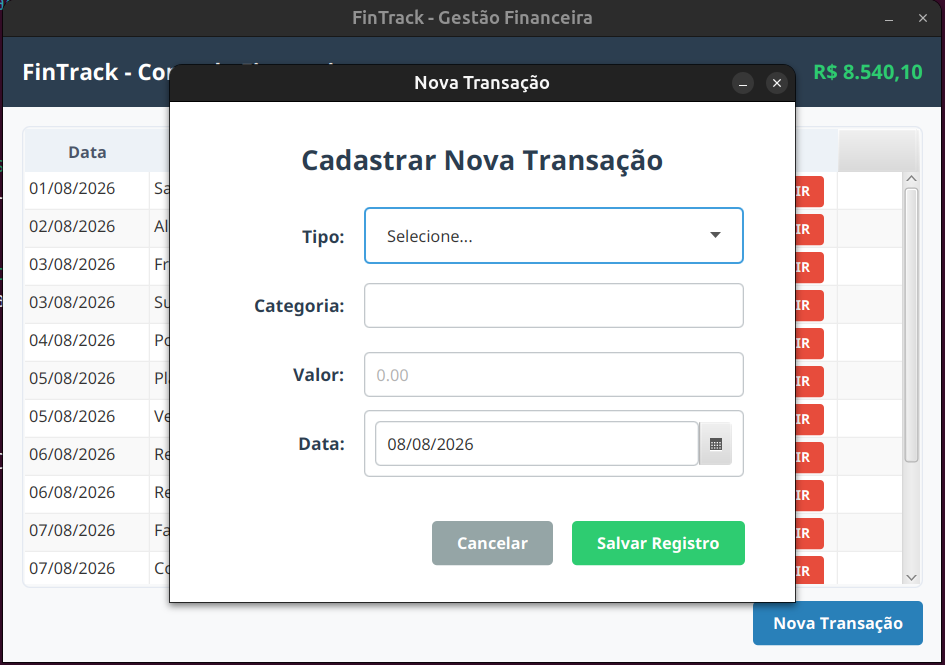
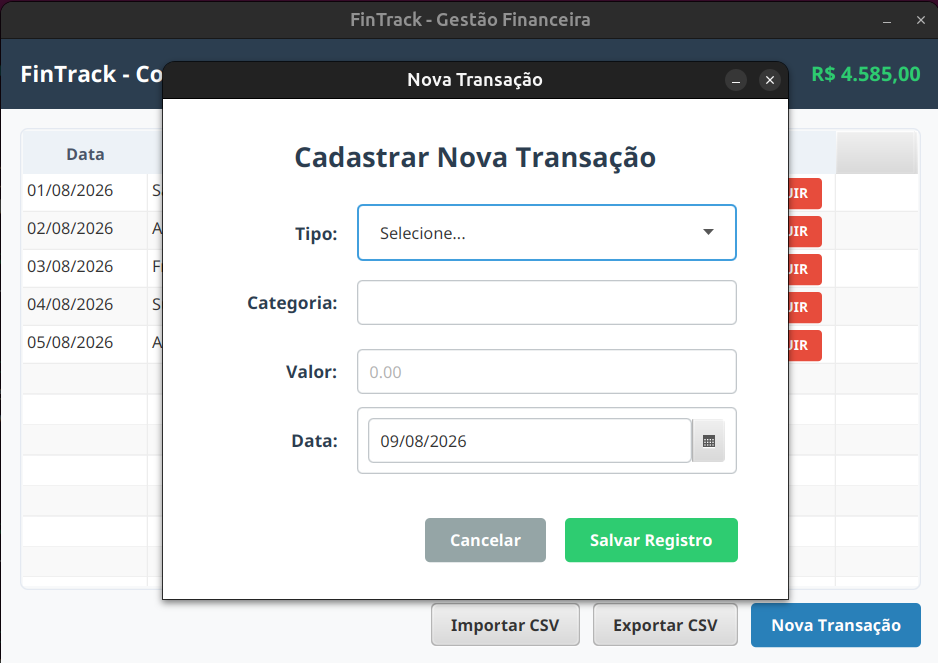
docs(readme): update main README architecture sections and rewrite SCREENS.md with CSV handlers

diff --git a/modulo-intermediario/proj-final/docs/SCREENS.md b/modulo-intermediario/proj-final/docs/SCREENS.md
@@ -1,35 +1,38 @@
 # Interfaces e Funcionalidades do Aplicativo
 
-Este documento descreve as telas que compoem a interface grafica do FinTrack, detalhando os componentes visuais do JavaFX e o fluxo de comunicacao com as camadas de negocio e persistencia.
+Este documento descreve as telas que compõem a interface gráfica do FinTrack, detalhando os componentes visuais do JavaFX e o fluxo de comunicação com as camadas de negócio e persistência.
 
 ---
 
 ## 1. Tela Principal (Dashboard Financeiro)
 
-A tela principal centraliza a visualizacao das movimentacoes e o balanco consolidado do usuario, operando de forma reativa com o banco de dados.
+A tela principal centraliza a visualização das movimentações e o balanço consolidado do usuário, operando de forma reativa com o banco de dados.
 
 ![Tela Principal](img/main-screen.png)
 
 ### Componentes e Comportamentos Visuais
-* **Painel de Saldo Geral:** Exibe o saldo total consolidado. O valor e calculado de forma polimorfica pelo `TransactionService` somando as entradas e subtraindo as saidas, sendo renderizado com a mascara de moeda nacional (`R$`) fornecida pelo utilitario `Formatter`.
-* **Tabela de Transacoes (TableView):** Lista os registros recuperados do MySQL por meio do `TransactionDbRepository`. As colunas de Data e Valor aplicam fabricas de celulas customizadas (`setCellFactory`) para exibir os dados nos padroes brasileiros (`dd/MM/yyyy` e `R$`).
-* **Coluna de Acoes:** Cada linha da tabela possui dois botoes especificos:
-  * **EDITAR:** Captura o objeto da linha selecionada e invoca a abertura da janela de formulario repassando a referencia para alteracao.
-  * **EXCLUIR:** Dispara a remocao fisica do registro diretamente no banco de dados utilizando a chave primaria (`Long id`). O fluxo e protegido por controle transacional ACID, atualizando o saldo e a tabela instantaneamente apos a confirmacao.
-* **Botao Nova Transacao:** Posicionado no topo da interface para abrir o formulario limpo para criacao de novos registros.
+* **Painel de Saldo Geral:** Exibe o saldo total consolidado. O valor é calculado de forma polimórfica pelo `TransactionService` somando as entradas e subtraindo as saídas, sendo renderizado com a máscara de moeda nacional (`R$`) fornecida pelo utilitário `Formatter`.
+* **Tabela de Transações (TableView):** Lista os registros recuperados do MySQL por meio do `TransactionDbRepository`. As colunas utilizam expressões lambda para mapear os dados do `TransactionResponseDTO` e aplicam fábricas de células customizadas (`setCellFactory`) para exibir datas (`dd/MM/yyyy`) e valores (`R$`) nos padrões nacionais.
+* **Coluna de Ações:** Cada linha da tabela possui dois botões específicos:
+  * **EDITAR:** Captura o DTO da linha selecionada e invoca a abertura da janela de formulário repassando a referência para alteração.
+  * **EXCLUIR:** Dispara a remoção física do registro diretamente no banco de dados utilizando a chave primária (`Long id`). O fluxo é protegido por controle transacional ACID, atualizando o saldo e a tabela instantaneamente após a confirmação.
+* **Barra de Ações do Rodapé:** Posiciona três componentes estruturados para o controle do ciclo de vida dos dados:
+  * **Importar CSV:** Invoca um `FileChooser` nativo para abrir arquivos planos. O texto capturado é enviado ao `TransactionCsvParser` para deserialização e inserido em lote atômico no banco via `saveAll`.
+  * **Exportar CSV:** Dispara uma caixa de salvamento de arquivos para exportar a listagem atual em texto estruturado delimitado por ponto e vírgula (`;`), isolando as falhas por meio da exceção customizada `CsvSerializationException`.
+  * **Nova Transação:** Abre a janela modal de formulário limpa para a criação de novos registros.
 
 ---
 
-## 2. Tela de Formulario (Nova Transacao e Edicao)
+## 2. Tela de Formulário (Nova Transação e Edição)
 
-Esta janela e aberta de forma modal (`APPLICATION_MODAL`), bloqueando a interacao com a tela de fundo ate que a operacao atual seja concluida ou cancelada.
+Esta janela é aberta de forma modal (`APPLICATION_MODAL`), bloqueando a interação com a tela de fundo até que a operação atual seja concluída ou cancelada.
 
-![Tela de Formulario](img/form-screen.png)
+![Tela de Formulário](img/form-screen.png)
 
-### Componentes e Fluxo de Validacao
-* **Tipo de Transacao (ComboBox):** Permite selecionar estritamente as opcoes "Entrada" ou "Saida", mapeadas internamente para o enumerador `TransactionType`.
-* **Categoria e Data (TextField e DatePicker):** Campos de preenchimento obrigatorio. Ao carregar um registro para edicao, o `DatePicker` e os campos de texto sao populados automaticamente com os dados antigos recuperados por ID.
-* **Valor da Movimentacao (TextField):** Suporta a digitacao com virgula (padrao nacional). O metodo `handleSave()` intercepta o clique em salvar, normaliza o caractere substituindo a virgula por ponto e encapsula o valor em um tipo `BigDecimal`.
-* **Mecanismo de Intercepcao de Erros:**
-  * Se houver campos em branco ou se o valor numrico for invalido/negativo, o controlador interrompe o processo, lanca a excecao customizada `InvalidInputException` e abre um alerta visual (`Alert`) do tipo `WARNING` na tela do usuario sem vazar metadados do sistema.
-  * Se os dados estiverem corretos, o sistema identifica se e um novo registro (`service.save()`) ou uma edicao (`service.update()`), confirmando as alteracoes com `conn.commit()` antes de recarregar a listagem e fechar a janela.
+### Componentes e Fluxo de Validação
+* **Tipo de Transação (ComboBox):** Permite selecionar estritamente as opções "Entrada" ou "Saída", mapeadas internamente para o enumerador `TransactionType`.
+* **Categoria e Data (TextField e DatePicker):** Campos de preenchimento obrigatório. Ao carregar um registro para edição, o `DatePicker` e os campos de texto são populados automaticamente com os dados do DTO de resposta recuperado por ID.
+* **Valor da Movimentação (TextField):** Suporta a digitação com vírgula (padrão nacional). O método `handleSave()` intercepta o clique em salvar, normaliza o caractere substituindo a vírgula por ponto e encapsula o valor em um tipo `BigDecimal`.
+* **Mecanismo de Intercepção de Erros:**
+  * Se houver campos em branco ou se o valor numérico for inválido ou menor/igual a zero, o controlador interrompe o processo, lança a exceção customizada `InvalidInputException` e abre um alerta visual (`Alert`) do tipo `WARNING` na tela do usuário sem vazar metadados do sistema.
+  * Se os dados estiverem corretos, o sistema identifica se é um novo registro (`service.save()`) ou uma edição (`service.update()`), enviando um `TransactionRequestDTO` para o serviço e confirmando as alterações antes de recarregar a listagem e fechar a janela.

diff --git a/modulo-intermediario/proj-final/README.md b/modulo-intermediario/proj-final/README.md
@@ -27,6 +27,17 @@ Esta versão representa uma reformulação estrutural completa em relação ao p
 
 ---
 
+## Guia de Teste das Funcionalidades CSV
+
+O sistema possui suporte a processamento de arquivos planos. Para testar o botão **"Importar CSV"**, utilize o arquivo de amostra pronto localizado em:
+* [extrato_teste.csv](samples/extrato_teste.csv)
+
+Para mais informações detalhadas sobre o comportamento do fluxo e a descrição das telas do sistema, acesse:
+* [Interface Grafica e Descricao das Telas](./docs/SCREENS.md)
+
+
+---
+
 ## Links de Documentacao
 
 * [Modelagem de Dados do Banco de Dados](./docs/DATA_MODEL.md)
